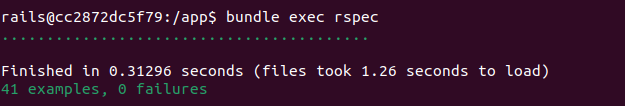
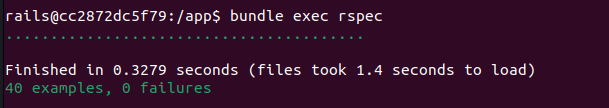
Adicionado algumas correçõs e atualização de print

diff --git a/lib/repository/inventory_repository.rb b/lib/repository/inventory_repository.rb
@@ -36,11 +36,11 @@ class InventoryRepository
       elsif !@quantity_enough
         return { message: 'A quantidade informada não existe no inventário !' }, status: '422'
       else
+        add_itens(user: user_first, items: user_second_items)
+        add_itens(user: user_second, items: user_first_items)
+        
         remove_itens(items: user_first_items)
-        add_itens(user: @user_first, items: user_second_items)
-
         remove_itens(items: user_second_items)
-        add_itens(user: @user_second, items: user_first_items)
 
         return { message: 'Escambo finalizado com sucesso !' }, status: '200'  
       end
@@ -60,6 +60,8 @@ class InventoryRepository
   end
 
   def add_itens(user:, items:)
+    return unless user.present?
+
     items.each do |id, quantity|
       item = Inventory.find_by_id(id)
       item_user = user.inventories.where(item: item.item)&.first

diff --git a/spec/repository/report_repository_spec.rb b/spec/repository/report_repository_spec.rb
@@ -15,13 +15,13 @@ RSpec.describe ReportRepository, type: :repository do
         report_data, status = repository.report
 
         expect(status).to eq({:status=>"200"})
-        expect(report_data[:percentage_of_infected_users]).to eq('11 %')
-        expect(report_data[:percentage_of_uninfected_users]).to eq('88 %')
+        expect(report_data[:percentage_of_infected_users]).to eq('20 %')
+        expect(report_data[:percentage_of_uninfected_users]).to eq('80 %')
         expect(report_data[:average_quantity_of_each_item_type_per_user]).to eq({
           water: '0',
           food: '0',
           medicine: '0',
-          ammunition: '4'
+          ammunition: '0'
         })
         expect(report_data[:number_of_points_lost_by_infected_users]).to eq(13)
       end

diff --git a/spec/repository/inventory_repository_spec.rb b/spec/repository/inventory_repository_spec.rb
@@ -50,7 +50,7 @@ RSpec.describe InventoryRepository, type: :repository do
     context 'when the quantity is not enough' do
       it 'returns error message and status 422' do
         expect(repository).to receive(:calculate_points).and_return(10)
-        allow(repository).to receive(:calculate_points).and_call_original
+        expect(repository).to receive(:calculate_points).and_return(11)
 
         result, status = repository.exchanges(params, user_first, user_second)
         expect(result[:message]).to eq('A quantidade de pontos não correspondem, portanto não poderá ser feito a troca !')

diff --git a/spec/models/infection_register_spec.rb b/spec/models/infection_register_spec.rb
@@ -9,7 +9,6 @@ RSpec.describe InfectionRegister, type: :model do
   describe "validations" do
     it { should validate_presence_of(:user_id) }
     it { should validate_presence_of(:user_infect_id) }
-    it { should validate_uniqueness_of(:user_id).scoped_to(:user_infect_id).with_message("Combinação de user_id e user_infect_id já existe") }
   end
 
   describe '#block_user' do

diff --git a/app/controllers/inventories_controller.rb b/app/controllers/inventories_controller.rb
@@ -19,6 +19,7 @@ class InventoriesController < ApplicationController
   def destroy
     begin
       @inventory.really_destroy!
+      render json: { message: 'Inventário excluido com sucesso' }, status: '200'  
     rescue StandardError => e
       render json: { message: 'Internal Server Error', error: e }, status: '500'  
     end

diff --git a/app/controllers/exchanges_controller.rb b/app/controllers/exchanges_controller.rb
@@ -10,8 +10,8 @@ class ExchangesController < ApplicationController
   private
 
   def set_users
-    @user_first = User.find(params[:user1_id])
-    @user_second = User.find(params[:user2_id])
+    @user_first = User.find(params[:user_first_id])
+    @user_second = User.find(params[:user_second_id])
   end
 
   def inventory_service

diff --git a/README.md b/README.md
@@ -72,7 +72,7 @@ Para listar apenas um usuário envie uma solicitação **DELETE** para a rota `h
 
 ### 2 - Inventário (inventory)
 
-#### 2.1 - Adicionar um item no inventáro (create inventory)
+#### 2.1 - Adicionar um item no inventáro (Add Item in Inventory)
 
 Para adicionar um item no iventário do usuário, envie uma solicitação **POST** para a rota `http://0.0.0.0:3000/inventories` com o seguinte **BODY**:
 
@@ -86,6 +86,7 @@ Para adicionar um item no iventário do usuário, envie uma solicitação **POST
 ```
 
 Obs. Os valores do item são `['água', 'comida', 'medicamento', 'munição'] `. E o user_id representa o valor do usuário que será adicionado o item do inventário.
+Essaação apenas irá atualizar a quantidade do item no iventário.
 
 #### 2.2 - Listar itens do inventário (index inventory)
 
